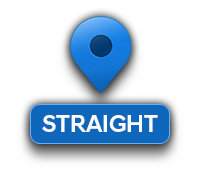
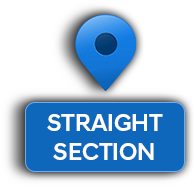
수정사항 반영

diff --git a/td/js/testdrive_en.js b/td/js/testdrive_en.js
@@ -18,7 +18,7 @@ var language = {
 		},
 		{
 			'title' : 'AEB',
-			'desc' : 'Another safety function prevents or reduce the damage of frontal collision.'
+			'desc' : 'Another safety function prevents or reduces the damage of frontal collisions.'
 		},
 		{
 			'title' : 'Lane Keeping Assist System (LKAS)',
@@ -26,11 +26,11 @@ var language = {
 		},
 		{
 			'title' : 'SUSPENSION',
-			'desc' : 'The front and rear suspensions of the Sonata New Rise have improved their structure and rigidity, helping to realize a better driving feel.'
+			'desc' : 'The front and rear suspensions of the Sonata New Rise have improved structure and rigidity, helping to realize a better driving feel.'
 		},
 		{
 			'title' : 'Vehicle Stability Management (VSM)',
-			'desc' : 'One of the key contribution of this system is keeping the vehicle stable when cornering at a high speed.'
+			'desc' : 'The key benefit of this system is keeping the vehicle stable when cornering at a high speed.'
 		},
 		{
 			'title' : 'DBL+HBA',
@@ -47,7 +47,7 @@ var language = {
 				'desc' : '<p>You are also driving a model with Nu 2.0, exceeding the performance of its competing model.</p><img src="../images/testdrive/002_04_01_01.png" alt="Engine Detail" />'
 			},
 			{
-				'desc' : '<p>The Sonata New Rise is engineered to generates the highest torque at a low-to-medium rpm range of daily driving. As a result, acceleration and responsiveness are improved, thus providing an excellent driving performance.</p><img src="../images/testdrive/002_04_01_02.png" alt="Engine Detail" />'
+				'desc' : '<p>The Sonata New Rise is engineered to generates the highest torque at a low-to-mid rpm range of daily driving. As a result, acceleration and engine response are improved, providing an excellent driving performance.</p><img src="../images/testdrive/002_04_01_02.png" alt="Engine Detail" />'
 			},
 			{
 				'desc' : '<p>Check other engines available for the Sonata New Rise.</p><img src="../images/testdrive/002_04_01_03.png" alt="Engine Detail" />'
@@ -58,33 +58,33 @@ var language = {
 		],
 		[//DRM
 			{
-				'desc' : '<p>The Driving Rear view Monitoring (DRM) especially useful when the rear view through the mirror inside is blocked by passengers or other objects.</p><img src="../images/testdrive/002_04_02_01.png" alt="7 DCT" />'
+				'desc' : '<p>The Driving Rear view Monitoring (DRM) is especially useful when the view through the rear view mirror is blocked by passengers or other objects.</p><img src="../images/testdrive/002_04_02_01.png" alt="7 DCT" />'
 			}
 		],
 		[//ASCC
 			{
-				'desc' : '<p>The radar at the bumper measures and maintains the distance from the car ahead at a certain level. If the car ahead stops, yours will also apply the brakes accordingly. If it starts within 3 seconds, yours will also do so automatically.</p><img src="../images/testdrive/002_04_03_01.png" alt="Drive Mode" />'
+				'desc' : '<p>The radar at the front bumper measures and maintains the distance from the car in front at a certain level. If the car in front stops, yours will also apply the brakes accordingly. If the car in front starts within 3 seconds, yours will also do so automatically.</p><img src="../images/testdrive/002_04_03_01.png" alt="Drive Mode" />'
 			},
 			{
-				'desc' : '<p>You can activate the function by pressing the Cruise button on the right side of the steering wheel. You can set the speed by using the levers under the button.</p><img src="../images/testdrive/002_04_03_02.png" alt="Drive Mode" />'
+				'desc' : '<p>You can activate the function by pressing the Cruise button on the right side of the steering wheel. You can set the speed by using the lever under the button.</p><img src="../images/testdrive/002_04_03_02.png" alt="Drive Mode" />'
 			}
 		],
 		[//BSD
 			{
-				'desc' : '<p>When a car approaching a blind spot is, the BSD turns on the LED lamp on the rearview mirror, warning that the driver should not change lanes This is a safety function for preventing accidents at blind spots that cannot be seen through the rearview mirror.</p><img src="../images/testdrive/002_04_04_01.png" alt="CORNERING PERFORMANCE">'
+				'desc' : '<p>When a car approaching a blind spot is detected the BSD turns on the LED lamp on the side view mirror, warning that the driver should not change lanes. This is a safety function for preventing blind spot accidents.</p><img src="../images/testdrive/002_04_04_01.png" alt="CORNERING PERFORMANCE">'
 			}
 		],
 		[//AEB
 			{
-				'desc' : '<p>The AEB (Autonomous Emergency Braking) function detects a car or a pedestrian ahead with a radar and a camera. If a collision is expected, it will generate a warning and then apply the brakes automatically.</p><img src="../images/testdrive/002_04_05_01.png">'
+				'desc' : '<p>The AEB (Autonomous Emergency Braking) function detects a car or a pedestrian in front with a radar and a camera. If a collision is expected, it will generate a warning first and then apply the brakes automatically if the driver doesn’t react.</p><img src="../images/testdrive/002_04_05_01.png">'
 			}
 		],
 		[//LKAS
 			{
-				'desc' : '<p>The Lane Keeping Assist System (LKAS) is a function for ensuring that a car deviating from its lane returns to its original lane. It automatically turns the steering wheel to the original position when departure from a lane is detected.</p><img src="../images/testdrive/002_04_06_01.png">'
+				'desc' : '<p>The Lane Keeping Assist System (LKAS) is a function for ensuring that a car deviating from its lane returns to its original lane. It automatically turns the steering wheel into the correct position when departure from a lane is detected.</p><img src="../images/testdrive/002_04_06_01.png">'
 			},
 			{
-				'desc' : '<p>The Driver Attention Alert (DAA) function generates a pop-up message and a warning sound to suggest that the driver take a rest when a driving pattern from fatigue or carelessness is detected.</p><img src="../images/testdrive/002_04_06_02.png">'
+				'desc' : '<p>TThe Driver Attention Alert (DAA) function generates a pop-up message and a warning sound to suggest that the driver take a rest when a driving pattern from fatigue or carelessness is detected.</p><img src="../images/testdrive/002_04_06_02.png">'
 			}
 		],
 		[//SUSPENSION
@@ -94,7 +94,7 @@ var language = {
 		],
 		[//VSM
 			{
-				'desc' : '<p>Minor vibrations, which otherwise could be transferred to the steering wheel when accelerating or when driving on a rough road, are completely eliminated. It is certain that braking stability has been is enhanced as well.</p><img src="../images/testdrive/002_04_08_01.png">'
+				'desc' : '<p>Minor vibrations, which otherwise could be transferred to the steering wheel when accelerating or driving on a rough road, are completely eliminated. Braking stability certainly has been enhanced as well.</p><img src="../images/testdrive/002_04_08_01.png">'
 			},
 			{
 				'desc' : '<p>the Vehicle Stability Management (VSM) prevents the car from being pushed outwards, making it possible to handle with stability and agility.</p><img src="../images/testdrive/002_04_08_02.png"><p>Vehicle Stability Management <br>A total system that optimizes engine, braking and steering systems for maintaining vehicle stability when braking or cornering at high speeds.</p>'
@@ -102,7 +102,7 @@ var language = {
 		],
 		[//DBL+HBA
 			{
-				'desc' : '<p>HBA (High Beam Assist) <br>It automatically turns on and off the high beam by sensing the amount of light from an approaching car.</p><img src="../images/testdrive/002_04_09_01.png">'
+				'desc' : '<p>HBA (High Beam Assist) <br>It automatically turns on and off switches the high beam by sensing the amount of light from an approaching car.</p><img src="../images/testdrive/002_04_09_01.png">'
 			},
 			{
 				'desc' : '<p>DBL (Dynamic Bending Light)<br>Dynamic Bending Light turns the low beam light in the direction  steering wheel is turned in order to provide a better visibility when cornering at night.</p><img src="../images/testdrive/002_04_09_02.png">'
@@ -116,7 +116,7 @@ var language = {
 				'desc' : '<p>In general, the parking sensors of a car are installed only at the rear. However, Sonata New Rise has sensors embedded in the front bumper as well, helping to prevent even minor accidents while parking.</p><img src="../images/testdrive/002_04_10_02.png">'
 			},
 			{
-				'desc' : '<p>In addition, the rear camera display also provides guide lines that move based on the steering operation, ,making the parking easier.</p><img src="../images/testdrive/002_04_10_03.png">'
+				'desc' : '<p>In addition, the rear camera display also provides guide lines that move based on the steering wheel position making the reverse parking easier.</p><img src="../images/testdrive/002_04_10_03.png">'
 			},
 			{
 				'desc' : '<p>Every vehicle has airbags for the driver and passenger seats including the curtain airbags. However, Sonata New Rise has extra knee airbags to provide greater safety.</p><img src="../images/testdrive/002_04_10_04.png">'

diff --git a/td/css/styles.css b/td/css/styles.css
@@ -903,8 +903,8 @@ video {
       left: 13%;
       bottom: 5%; }
     .popPage .imgbox.map img.mapIcon.beforeDriving {
-      left: 2%;
-      bottom: 26%; }
+      left: 1%;
+      bottom: 37%; }
     .popPage .imgbox.map img.mapIcon.straight {
       left: 10%;
       top: 5%; }

diff --git a/td/scss/partials/pages/_popPage.scss b/td/scss/partials/pages/_popPage.scss
@@ -29,8 +29,8 @@
 			bottom:5%;
 		}
 		img.mapIcon.beforeDriving{
-			left:2%;
-			bottom:26%;
+			left:1%;
+			bottom:37%;
 		}
 		img.mapIcon.straight{
 			left:10%;

diff --git a/td/en/testdriveIntro.php b/td/en/testdriveIntro.php
@@ -59,12 +59,12 @@
 				<div data-role="header" class="header">
 					<a href="#" class="ui-btn btn_sidePanel ui-btn-right"><img src="../images/common/btn_menu.png" alt=""></a>
 					<a href="#" class="ui-btn ui-btn-left" data-rel="back"><img src="../images/common/btn_backward.png" alt=""></a>
-					<h1>Test Drive</h1>
+					<h1>VIRTUAL EXPERIENCE</h1>
 				</div>
 				<div data-role="main" class="ui-content">
 					<div class="titlewrap">
 						<div class="title"><h1>Sonata New Rise</h1></div>
-						<p>TEST DRIVE</p>
+						<p>VIRTUAL EXPERIENCE</p>
 					</div>
 					<div class="button">
 						<a href="#tdIntro">
@@ -79,7 +79,7 @@
 				<div data-role="header" class="header">
 					<a href="#" class="ui-btn btn_sidePanel ui-btn-right"><img src="../images/common/btn_menu.png" alt=""></a>
 					<a href="#" class="ui-btn ui-btn-left" data-rel="back"><img src="../images/common/btn_backward.png" alt=""></a>
-					<h1>Test Drive</h1>
+					<h1>VIRTUAL EXPERIENCE</h1>
 				</div>
 				<div data-role="main" class="ui-content">
 					<div class="wrap">
@@ -98,8 +98,8 @@
 							</div>
 						</div>
 						<div class="textwrap">	
-							<p>The Virtual Test Drive will help you indirectly experience the features and feelings of the car. After this, you can also request an actual test drive .</p>
-							<p>Enjoy the Sonata New Rise as you drive through the city using your smartphone.</p>
+							<p>The Virtual Test Drive will help you indirectly experience the features and feelings of the car. After this, you can also request an actual test drive.</p>
+							<p>Enjoy the Sonata New Rise as you drive through the city using your smartphone!</p>
 						</div>
 						<div class="button">
 							<a class="btn_box btn_showroom" href="#drivingMap">VISIT</a>
@@ -112,10 +112,10 @@
 			<section data-role="page" id="drivingMap" class="container popPage">
 				<div data-role="header" class="header">
 					<a href="#" class="ui-btn btn_sidePanel ui-btn-right"><img src="../images/common/btn_menu.png" alt=""></a>
-					<h1>Test Drive</h1>
+					<h1>VIRTUAL EXPERIENCE</h1>
 				</div>
 				<div data-role="main" class="ui-content">
-					<h2>Virtual Test Drive Map</h2>
+					<h2>COURSE MAP</h2>
 					<div class="imgbox map">
 						<!-- <img src="../images/testdrive/002_02_00_btn_01.png" class="mapIcon showroom" alt=""> -->
 						<img src="../images/testdrive/002_02_00_btn_02.png" class="mapIcon beforeDriving" alt="">
@@ -140,36 +140,36 @@
 					</div> -->
 					<div class="popLayer imgbox" id="pop_beforeDriving">
 						<div class="textwrap">
-							<h3>Start Point</h3>
-							<p>First, let’s go through the initial settings you need.<br><br>Adjust the side mirrors, seat position, and steering wheel position, and finally wear your seat belt.</p>
+							<h3>Preparation</h3>
+							<p>Initial settings for the test drive will be introduced.</p>
 						</div>
 						<div class="btn_close"><img src="../images/common/btn_close.png" alt=""></div>
 					</div>
 					<div class="popLayer imgbox" id="pop_straight">
 						<div class="textwrap">
 							<h3>Straight Section</h3>
-							<p>In this section, you will get to know about engines, transmissions, as well as safety features available for the Sonata New Rise.</p>
+							<p>You will experience the performance of the engines, transmissions, and some safety features that the Sonata New Rise has.</p>
 						</div>
 						<div class="btn_close"><img src="../images/common/btn_close.png" alt=""></div>
 					</div>
 					<div class="popLayer imgbox" id="pop_cornering">
 						<div class="textwrap">
 							<h3>Cornering Section</h3>
-							<p>In this section you will see how the suspensions and an advanced system contribute to stable driving.</p>
+							<p>You will experience how the suspensions and an advanced system(VSM) contribute to stable driving.</p>
 						</div>
 						<div class="btn_close"><img src="../images/common/btn_close.png" alt=""></div>
 					</div>
 					<div class="popLayer imgbox" id="pop_lakeChange">
 						<div class="textwrap">
-							<h3>Lane-changing section</h3>
-							<p>In this section, you will be introduced more Smart Sense functions (ASCC, BSD) available for safe driving.</p>
+							<h3>Lane changing section</h3>
+							<p>You will  experience more Smart Sense functions (ASCC, BSD) available for safe driving.</p>
 						</div>
 						<div class="btn_close"><img src="../images/common/btn_close.png" alt=""></div>
 					</div>
 					<div class="popLayer imgbox" id="pop_parking">
 						<div class="textwrap">
 							<h3>Parking</h3>
-							<p>AVM function that provides a 360-degree view of your surroundings while parking will be demonstrated.</p>
+							<p>You will experience how parking assist systems of Sonata New Rise help you park easily and safely.</p>
 						</div>
 						<div class="btn_close"><img src="../images/common/btn_close.png" alt=""></div>
 					</div>
@@ -189,7 +189,7 @@
 							<p><span class="dName">Jack</span>'s <span class="comt">Comments</span></p>
 						</div>
 						<div class="textwrap">
-							<p>Adjust the seat first to set the most comfortable position for driving before starting.</p>
+							<p>Adjust the seat first to set the most comfortable position for driving before you start.</p>
 						</div>
 					</div>
 					<div>
@@ -212,7 +212,7 @@
 							<p><span class="dName">Jack</span>'s <span class="comt">Comments</span></p>
 						</div>
 						<div class="textwrap">
-							<p>Check whether you can see the side and behind well and adjust the rearview mirror for the best view.</p>
+							<p>Check whether you can see the side and behind well and adjust the side view and rear view mirrors.</p>
 						</div>
 					</div>
 					<div>
@@ -235,7 +235,7 @@
 							<p><span class="dName">Jack</span>'s <span class="comt">Comments</span></p>
 						</div>
 						<div class="textwrap">
-							<p>Adjust the steering wheel to you comfortable position by tilting and telescoping it.</p>
+							<p>Adjust the steering wheel to your comfortable position by tilting and telescoping it.</p>
 						</div>
 					</div>
 					<div>

diff --git a/td/en/showroom.php b/td/en/showroom.php
@@ -125,7 +125,7 @@
 							<p><span class="dName">Jack</span>'s <span class="comt">Comments</span></p>
 						</div>
 						<div class="textwrap">
-							<p>A wider cascading grille is applied to the front. With the grill in the center, bold lines and a sense of volume give the car powerful and sporty look.</p>
+							<p>A wider cascading grille is applied to the front. With the grille in the center, bold lines and a sense of volume give the car a powerful and sporty look.</p>
 						</div>
 					</div>
 					<div>
@@ -194,7 +194,7 @@
 							<p><span class="dName">Jack</span>'s <span class="comt">Comments</span></p>
 						</div>
 						<div class="textwrap">
-							<p>The vertical-type DRL integrated with the air adds a swift and sporty feel to the car.</p>
+							<p>The vertical-type DRL integrated with the air curtain adds a sporty feel to the car.</p>
 						</div>
 					</div>
 					<div>
@@ -354,7 +354,7 @@
 							<p><span class="dName">Jack</span>'s <span class="comt">Comments</span></p>
 						</div>
 						<div class="textwrap">
-							<p>A wireless charging system is added for the convenience of the driver and passengers.</p>
+							<p>The wireless charging system for smart phones has been added for the convenience of the driver and passengers.</p>
 						</div>
 					</div>
 					<div>
